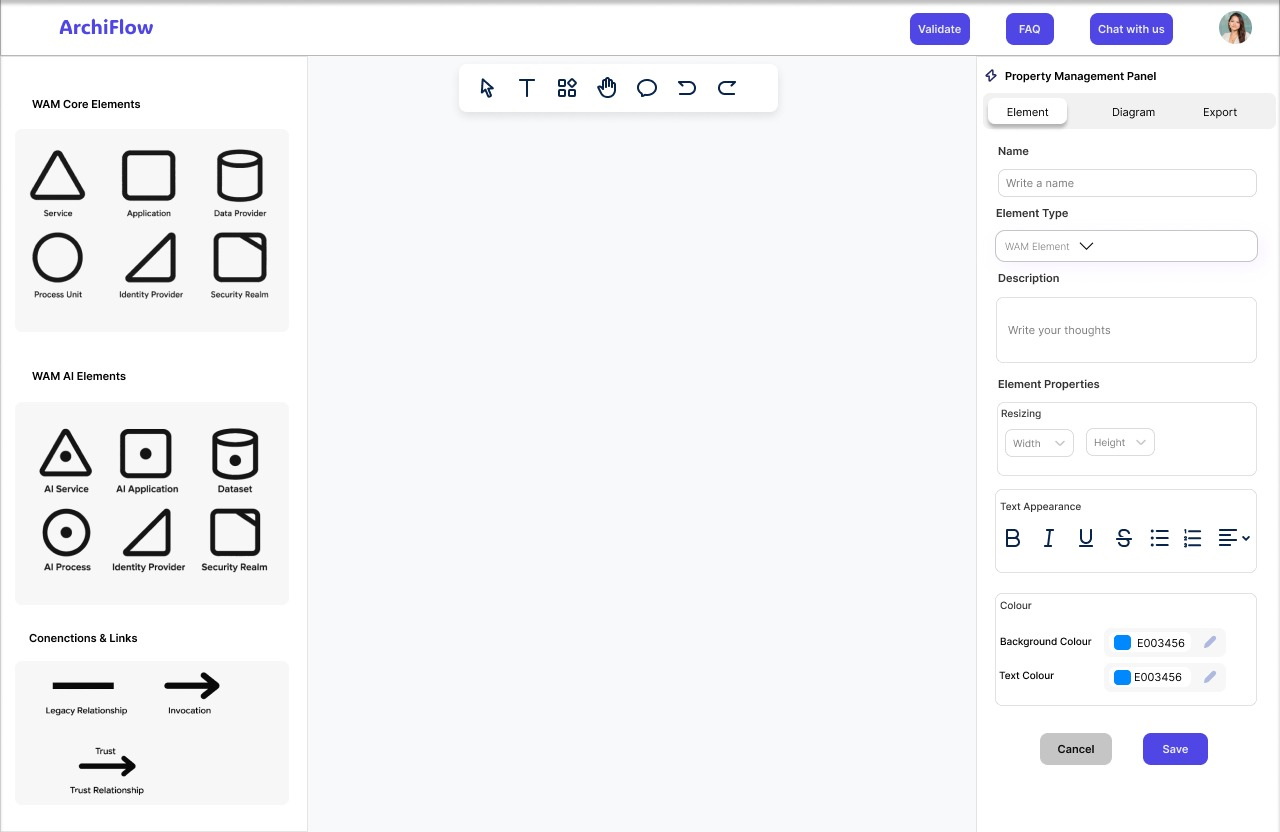
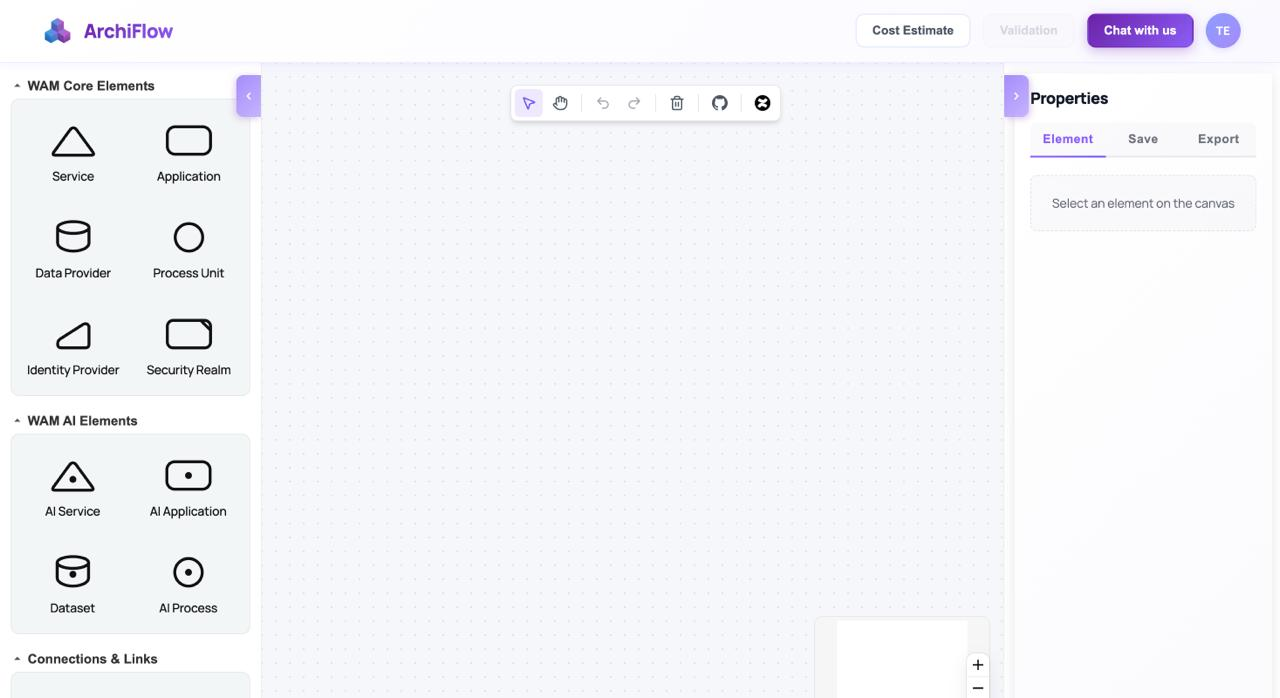
ui: fix the Editor.jpeg to look better visually

diff --git a/components/Cards.tsx b/components/Cards.tsx
@@ -37,23 +37,21 @@ export function WobbleCardDemo() {
         </div>
       </WobbleCard>
       <WobbleCard containerClassName="col-span-1 bg-pink lg:col-span-3 xl:min-h-[300px]">
-        <div className="flex flex-col lg:flex-row lg:items-center lg:gap-8">
-          <div className="max-w-sm relative z-10 shrink-0">
-            <h2 className="text-left text-balance text-base md:text-xl lg:text-3xl font-semibold tracking-[-0.015em] text-white">
-              What we do
-            </h2>
-            <p className="mt-4 text-left text-base/6 text-neutral-200">
-              Think of us as the &quot;Autocorrect&quot; for software architecture. You simply describe your idea to our AI, and it instantly draws a perfect, error-free blueprint for you.
-            </p>
-          </div>
-          <img
-            src="/Editor.jpeg"
-            width={500}
-            height={500}
-            alt="linear demo image"
-            className="hidden lg:block object-contain rounded-2xl mt-4 lg:mt-0"
-          />
+        <div className="max-w-sm relative z-10">
+          <h2 className="text-left text-balance text-base md:text-xl lg:text-3xl font-semibold tracking-[-0.015em] text-white">
+            What we do
+          </h2>
+          <p className="mt-4 text-left text-base/6 text-neutral-200">
+            Think of us as the &quot;Autocorrect&quot; for software architecture. You simply describe your idea to our AI, and it instantly draws a perfect, error-free blueprint for you.
+          </p>
         </div>
+        <img
+          src="/Editor.jpeg"
+          width={500}
+          height={500}
+          alt="linear demo image"
+          className="absolute -right-4 lg:-right-[5%] hidden lg:block -bottom-10 object-contain rounded-2xl"
+        />
       </WobbleCard>
     </div>
   );
